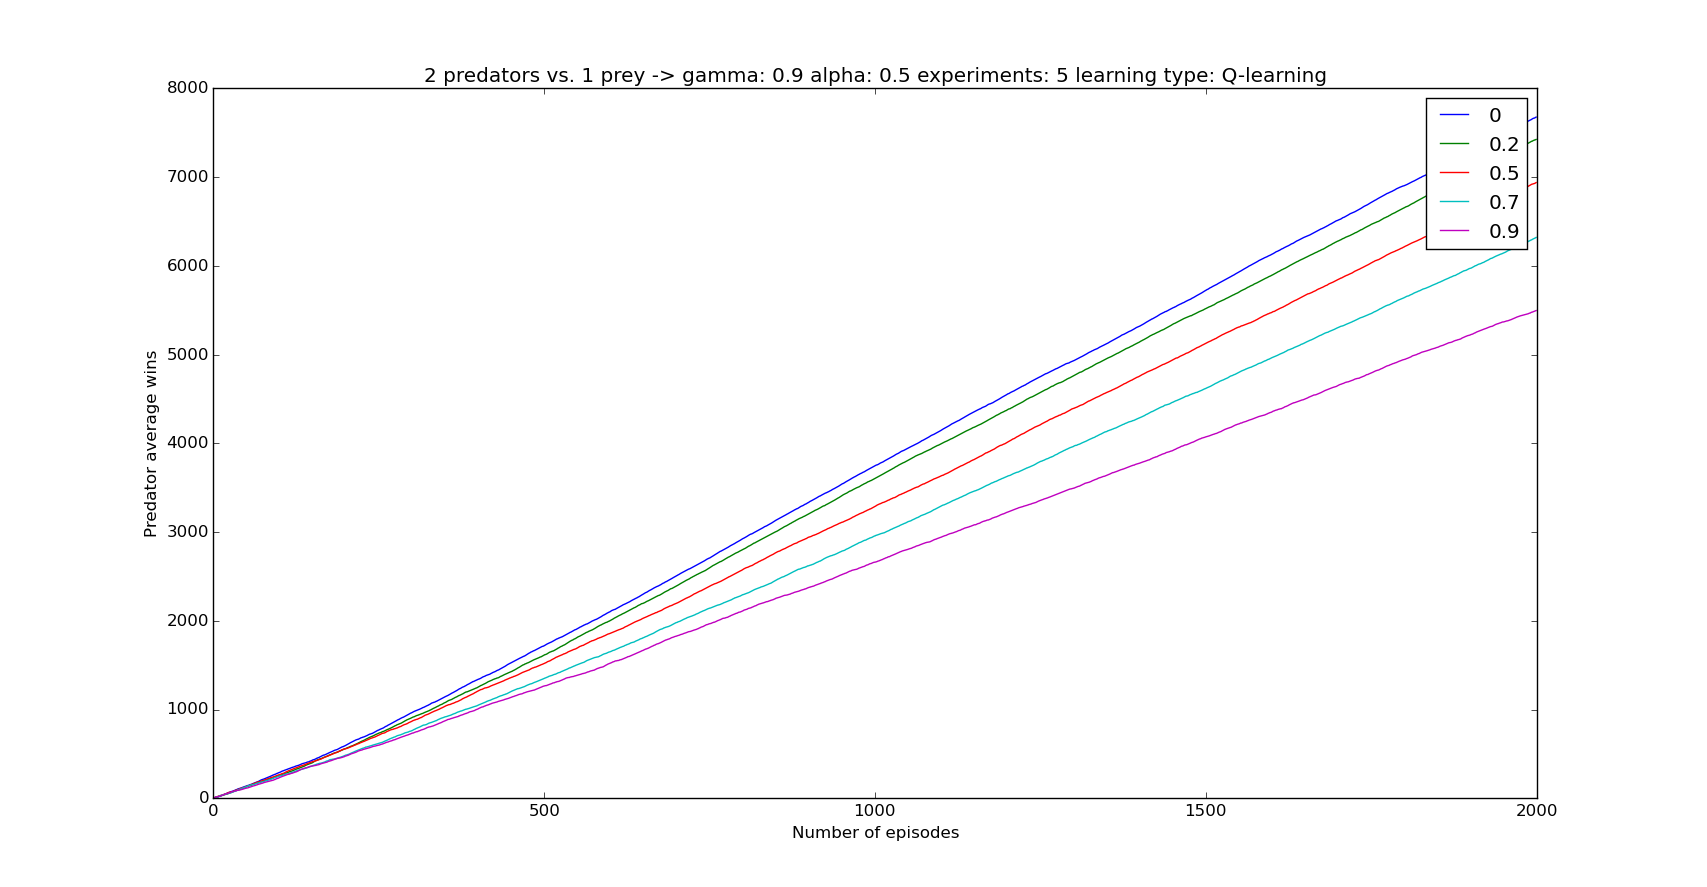
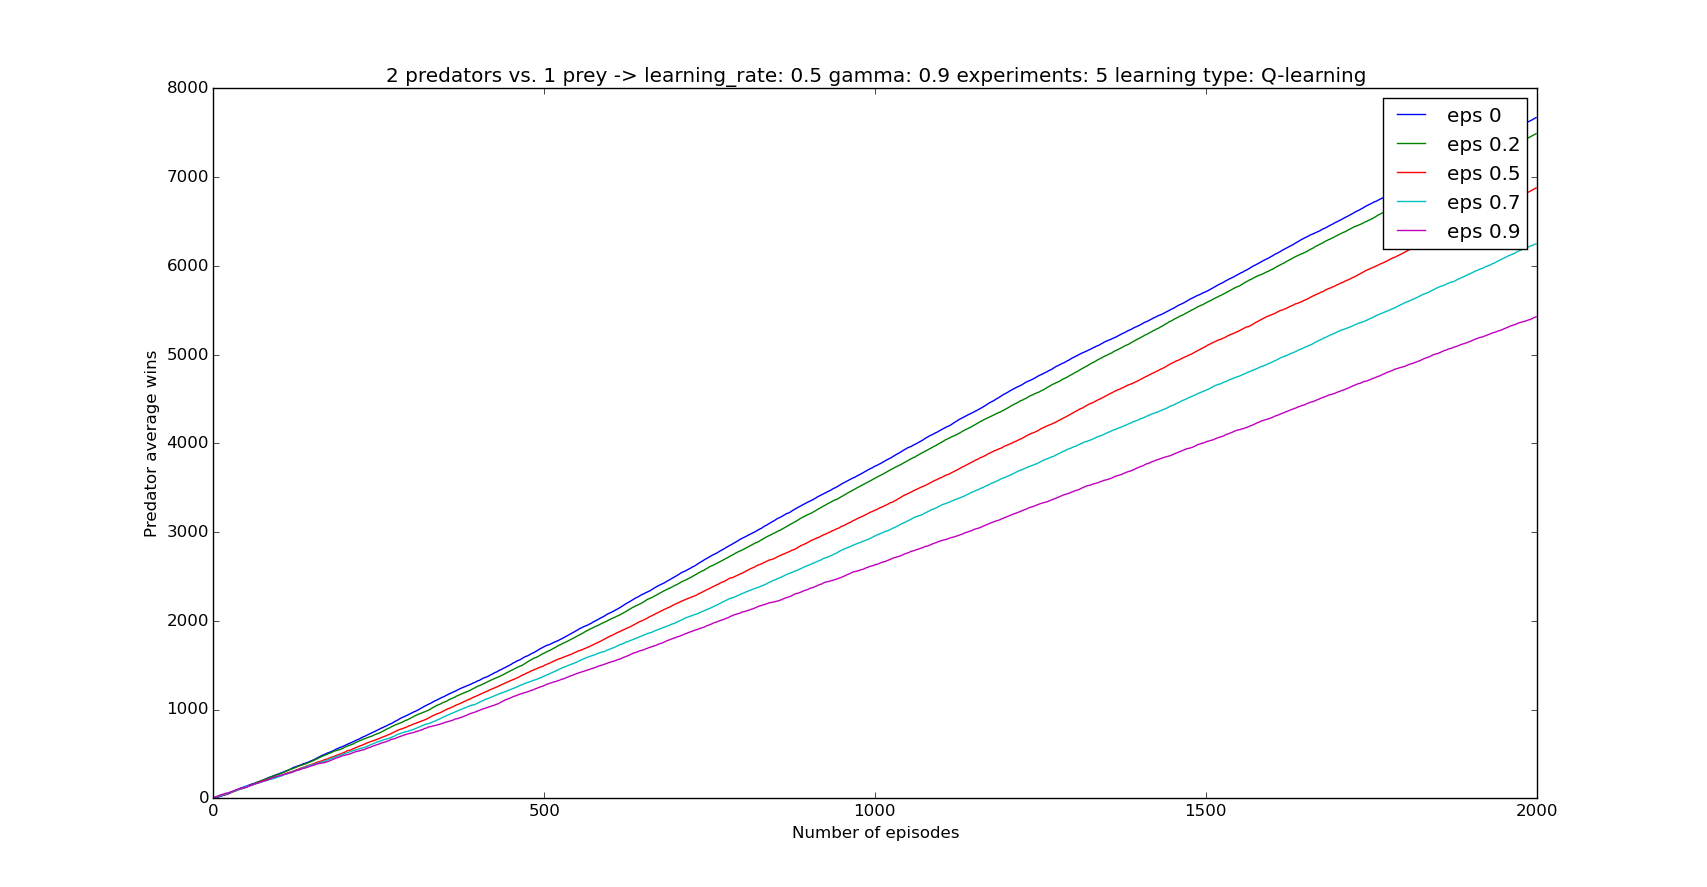
updated report

diff --git a/three/report/ind_q_analysis.tex b/three/report/ind_q_analysis.tex
@@ -61,7 +61,7 @@ From the graph it is easy to see that a low learning rate yields worst results. 
 \begin{center}
 \begin{tabular}{| l | l | l | l | l |}
 \hline
-\parbox{2cm}{Learning rate/ \\ Wins and losses} & \parbox{2cm}{\textbf{Avg wins \\ (first 100)}} & \parbox{2cm}{\textbf{Avg losses \\ (first 100)}} & \parbox{2cm}{\textbf{Avg wins \\ (last 100)}} & \parbox{2cm}{\textbf{Avg losses \\ (last 100)}} \\
+\parbox{2cm}{\textbf{Learning rate}} & \parbox{2cm}{\textbf{Avg wins \\ (first 100)}} & \parbox{2cm}{\textbf{Avg losses \\ (first 100)}} & \parbox{2cm}{\textbf{Avg wins \\ (last 100)}} & \parbox{2cm}{\textbf{Avg losses \\ (last 100)}} \\
 \hline
 \textbf{0.2} & 50 & 49 & 74 & 24 \\
 \hline
@@ -70,7 +70,7 @@ From the graph it is easy to see that a low learning rate yields worst results. 
 \textbf{0.7} & 54 & 45 & 63 & 35 \\
 \hline
 \end{tabular}
-\caption{Average \# rounds the predators need to catch the prey}
+\caption{Average \# wins and losses by the predators with varying learning rates}
 \end{center}
 \end{table}
 
@@ -99,7 +99,7 @@ The graph shows that for a long time, it does not matter how important the futur
 \textbf{0.7} & 55 & 45 & 74 & 24 \\
 \hline
 \end{tabular}
-\caption{Average \# wins and losses by the predators}
+\caption{Average \# wins and losses by the predators with varying discount factors}
 \end{center}
 \end{table}
 
@@ -115,24 +115,25 @@ Selecting the next action is important. There has to be a balance between explor
 
 Figure \# shows that greedy action selection yields best results. This is possible, as all predators are initialized at the corners of the grid, starting out with equal distance to the prey. As the prey moves, it will be closer to one predator. Therefore, without exploration, the prey will be caught by one predator. As a greedy action, in this case, leads to moving in the direction of the highest Q-value, it is still possible for the predators to bump into each other. However, it seems as if the prey is most often caught before this happens leading to wins for the predators.
 
-%INCOMPLETE AS I FOGOT TO STORE THE TABLE RESULTS! RUNNING AS WE SPEAK!
 \begin{table}[H]
 \begin{center}
 \begin{tabular}{| l | l | l | l | l |}
 \hline
-\parbox{2cm}{\textbf{Discount factor}} & \parbox{2cm}{\textbf{Avg wins \\ (first 100)}} & \parbox{2cm}{\textbf{Avg losses \\ (first 100)}} & \parbox{2cm}{\textbf{Avg wins \\ (last 100)}} & \parbox{2cm}{\textbf{Avg losses \\ (last 100)}} \\
+\parbox{2cm}{\textbf{$\epsilon$-rate}} & \parbox{2cm}{\textbf{Avg wins \\ (first 100)}} & \parbox{2cm}{\textbf{Avg losses \\ (first 100)}} & \parbox{2cm}{\textbf{Avg wins \\ (last 100)}} & \parbox{2cm}{\textbf{Avg losses \\ (last 100)}} \\
 \hline
-\textbf{0} & 50 & 49 & 74 & 24 \\
+\textbf{0} & 55 & 44 & 76 & 22 \\
 \hline
-\textbf{0.2} & 50 & 49 & 74 & 24 \\
+\textbf{0.2} & 54 & 45 & 77 & 21 \\
 \hline
-\textbf{0.5} & 54 & 45 & 72 & 21 \\
+\textbf{0.5} & 49 & 50 & 72 & 27 \\
 \hline
-\textbf{0.7} & 54 & 45 & 63 & 24 \\
+\textbf{0.7} & 48 & 51 & 66 & 32 \\
 \hline
-\textbf{0.9} & 50 & 49 & 74 & 24 \\
+\textbf{0.9} & 50 & 59 & 55 & 44 \\
 \hline
 \end{tabular}
-\caption{Average \# wins and losses by the predators}
+\caption{Average \# wins and losses by the predators with varying $\epsilon$-rates}
 \end{center}
 \end{table}
+
+Though, at first, an absolute greedy policy appears to yield the most promising results, a slightly exploratory policy eventually yields the best results. This is not displayed in the graph as the wins are counted cumulatively. Eventually, the results will be best when still exploring sightly.

diff --git a/three/report/state_space_encoding.tex b/three/report/state_space_encoding.tex
@@ -1,1 +1,1 @@
-In the previous assignments, two agents participated in the game. A predator chased a prey, who hardly ever moved. Now, the both the predator and the prey move around on the grid. Both agents learn and it is possible to initialize the game with up to four predators. This leads to a total of five agents. Adding an agent to the game increases the state space exponentially, making computation of Q-learning very expensive. Combined with the fact that all algorithms need time to learn and that multiple experiments must be run for accuracy, the algorithms will be executed several thousand times. It is, therefore, essential to calculate results as quick as possible. This will speed up significantly using state space encoding. Instead of checking the entire grid per agent, the distance to each agent is calculated. Along these distances, the Q-values are evaluated and used to take an action. The Q-values will be updated, not longer needing to update the entire grid after taking an action. Using this technique, only part of the Q-values are updated, per agent. This saves a lot of time, compared to the previous implementation.
+In the previous assignments, two agents participated in the game. A predator chased a prey, which hardly ever moved and didn't learn. Now, the both the predator and the prey move around on the grid. Both agents learn and it is possible to initialize the game with up to four predators. This leads to a total of five agents. Adding an agent to the game increases the state space exponentially, making computation of Q-learning very expensive. Combined with the fact that all algorithms need time to learn and that multiple experiments must be run for accuracy, the algorithms will be executed several thousand times. It is, therefore, essential to calculate results as quick as possible. This will speed up significantly using state space encoding. Instead of checking the entire grid per agent, the distance to each agent is calculated. Along these distances, the Q-values are evaluated and used to take an action. The Q-values will be updated, not longer needing to update the entire grid after taking an action. Using this technique, only part of the Q-values are updated, per agent. This saves a lot of time, compared to the previous implementation.
